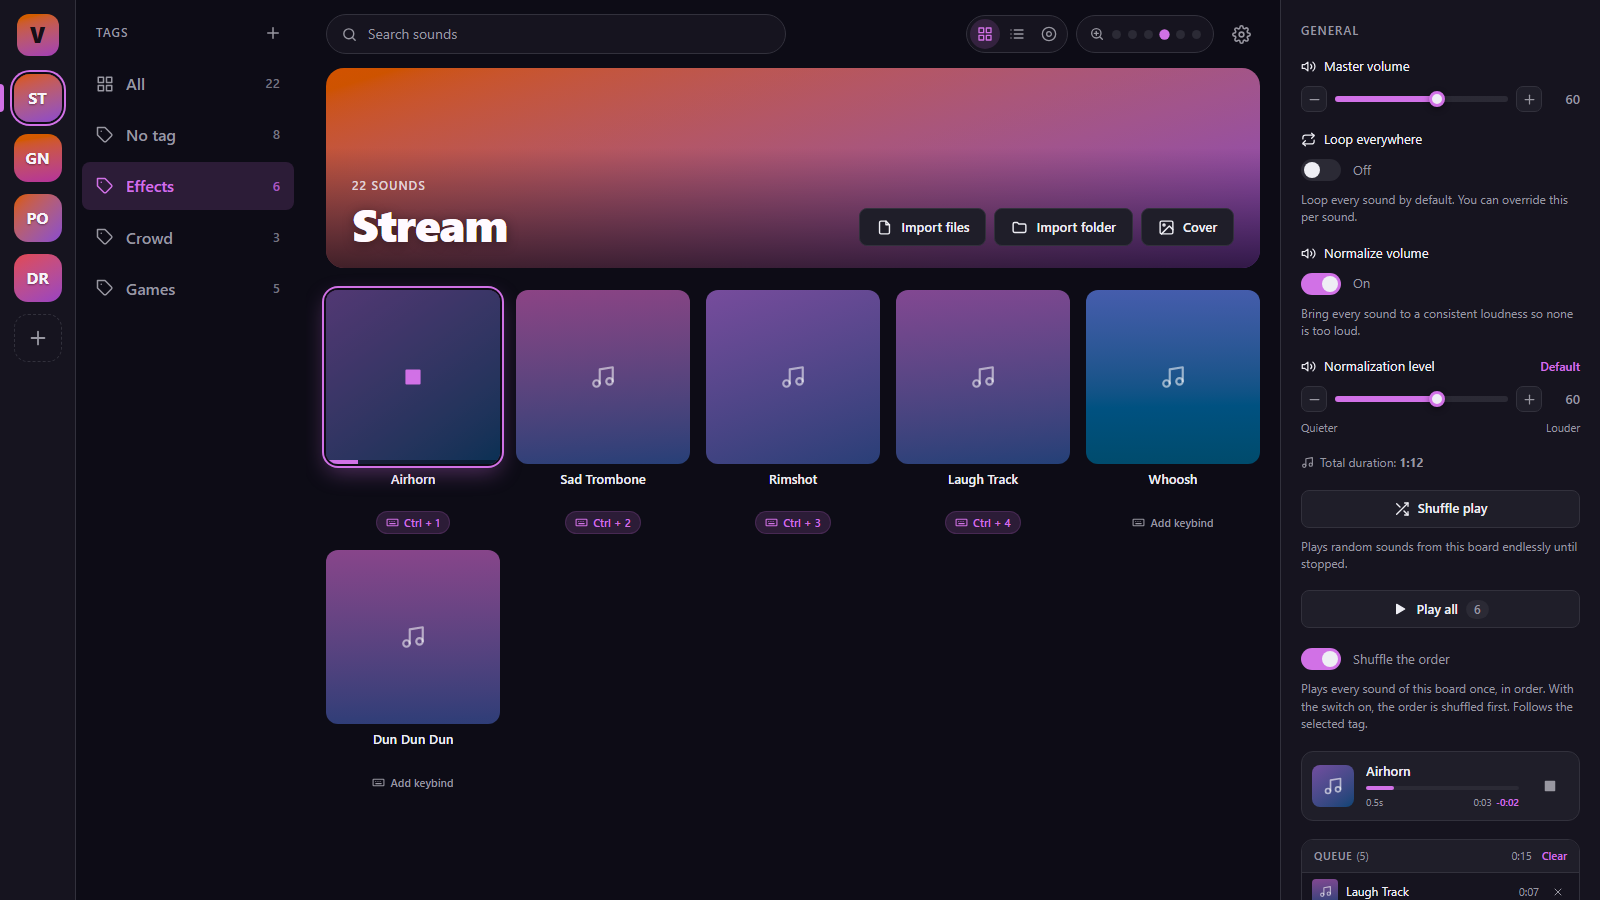
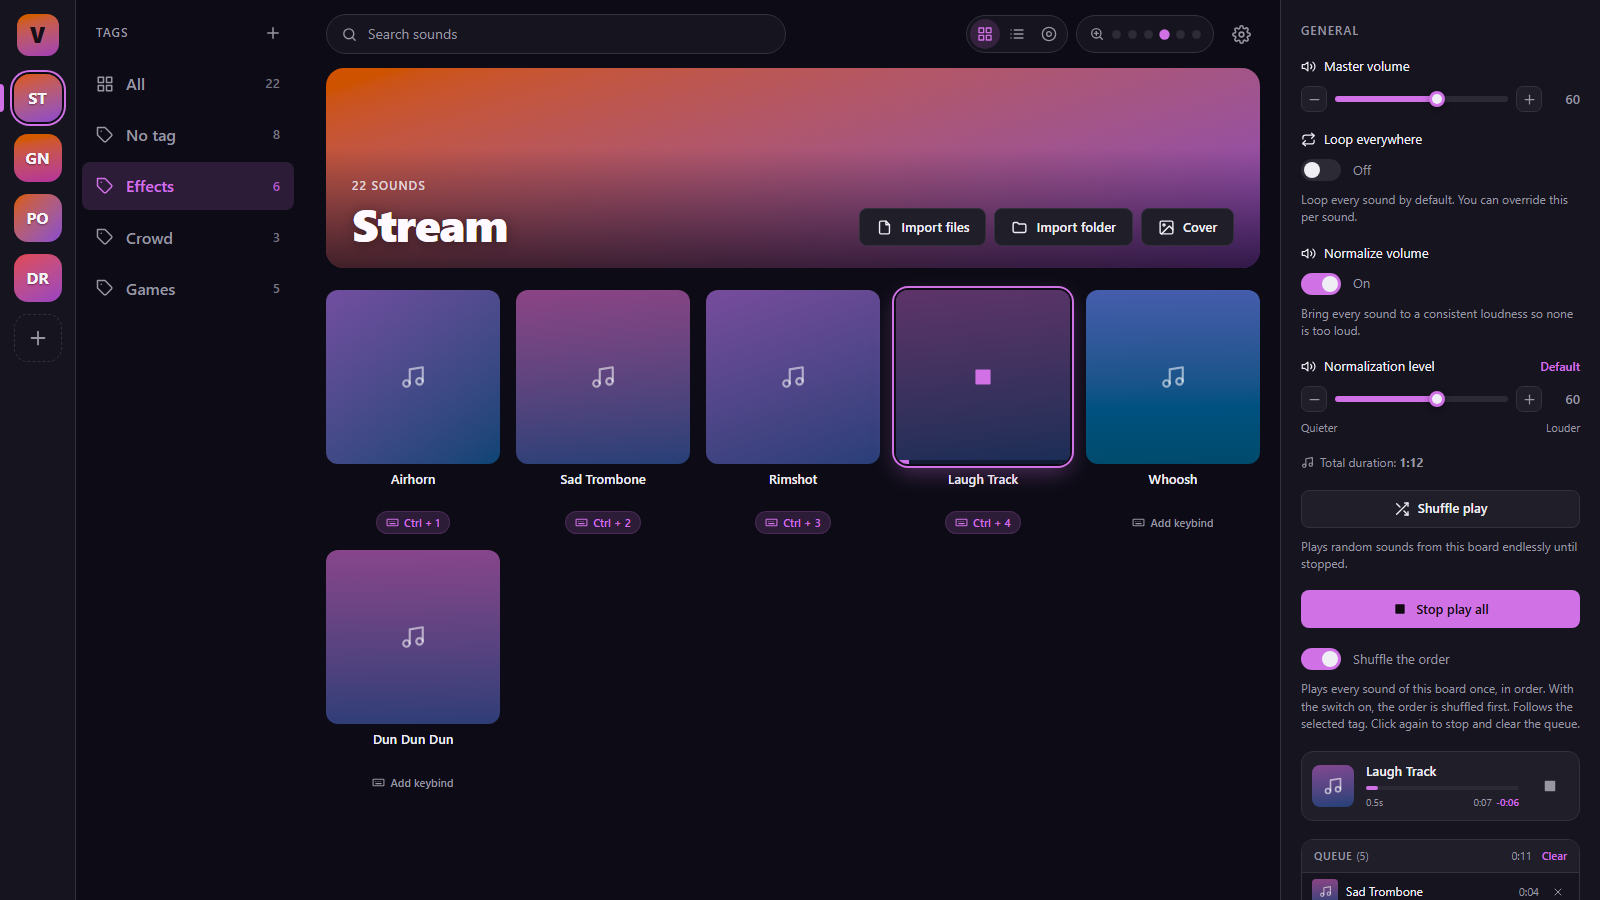
docs: describe the play all toggle and refresh screenshots

diff --git a/docs/usage.md b/docs/usage.md
@@ -31,11 +31,13 @@ Artist, album, year, track and disc tags are read from the files at import time.
 | Queue | Queued sounds play one after the other as each finishes. |
 | Playback bar | Elapsed and remaining time, seek, previous/next through the board's history. |
 | **Shuffle play** | Endless random playback for the current board, with a ~200 ms crossfade on skip and seek. Sounds are drawn at random each time, so repeats happen before everything has played. |
-| **Play all** | Plays every sound of the current board once, then stops, so each one comes out exactly once. Turn on **Shuffle the order** (off by default, remembered) to shuffle the list first. The button shows how many sounds it will play. |
+| **Play all** | Plays every sound of the current board once, then stops, so each one comes out exactly once. Turn on **Shuffle the order** (off by default, remembered) to shuffle the list first. The button shows how many sounds it will play. While it runs the button turns violet, like *Shuffle play*; click it again to cut the current sound and clear the queue. |
 
 ### Play all
 
-*Play all* sits under *Shuffle play* in the inspector. It follows the tag rail: with a tag selected it plays only that tag's sounds, with *No tag* only the untagged ones. The first sound starts immediately and the rest are loaded into the board's queue, so *previous/next* and the playback bar work as usual. Starting it replaces the board's queue and stops endless shuffle if it was running.
+*Play all* sits under *Shuffle play* in the inspector. It follows the tag rail: with a tag selected it plays only that tag's sounds, with *No tag* only the untagged ones. The first sound starts immediately and the rest are loaded into the board's queue, so *previous/next* and the playback bar work as usual. Starting it replaces the board's queue and stops endless shuffle if it was running; starting endless shuffle while *Play all* runs cancels it the same way.
+
+While *Play all* runs, the button turns violet and reads **Stop play all**. Clicking it stops the sound that is playing and empties the queue: everything is cancelled, exactly like stopping shuffle. It also switches back to *Play all* by itself once the last sound has ended, or if you clear the queue, press stop in the now-playing card, or pick a sound by hand after the queue has run out. Each board has its own state, so a *Play all* running on one board does not light the button on another.
 
 <p align="center">
   <img src="images/play-all.png" alt="Play all on the Effects tag with the shuffled order switch on" width="800">
